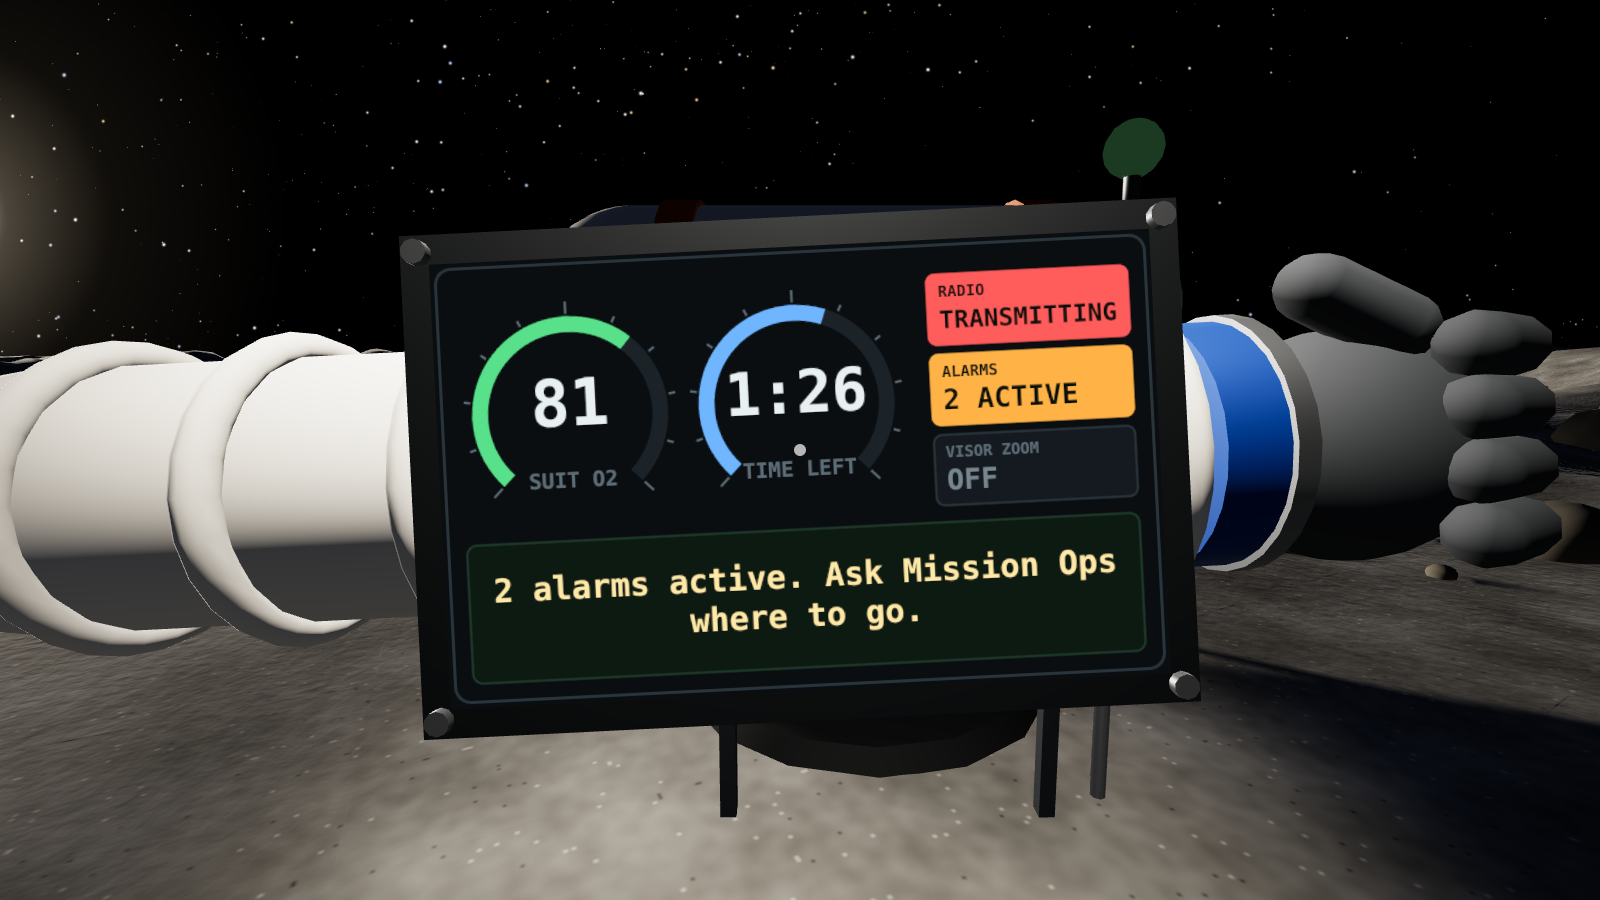
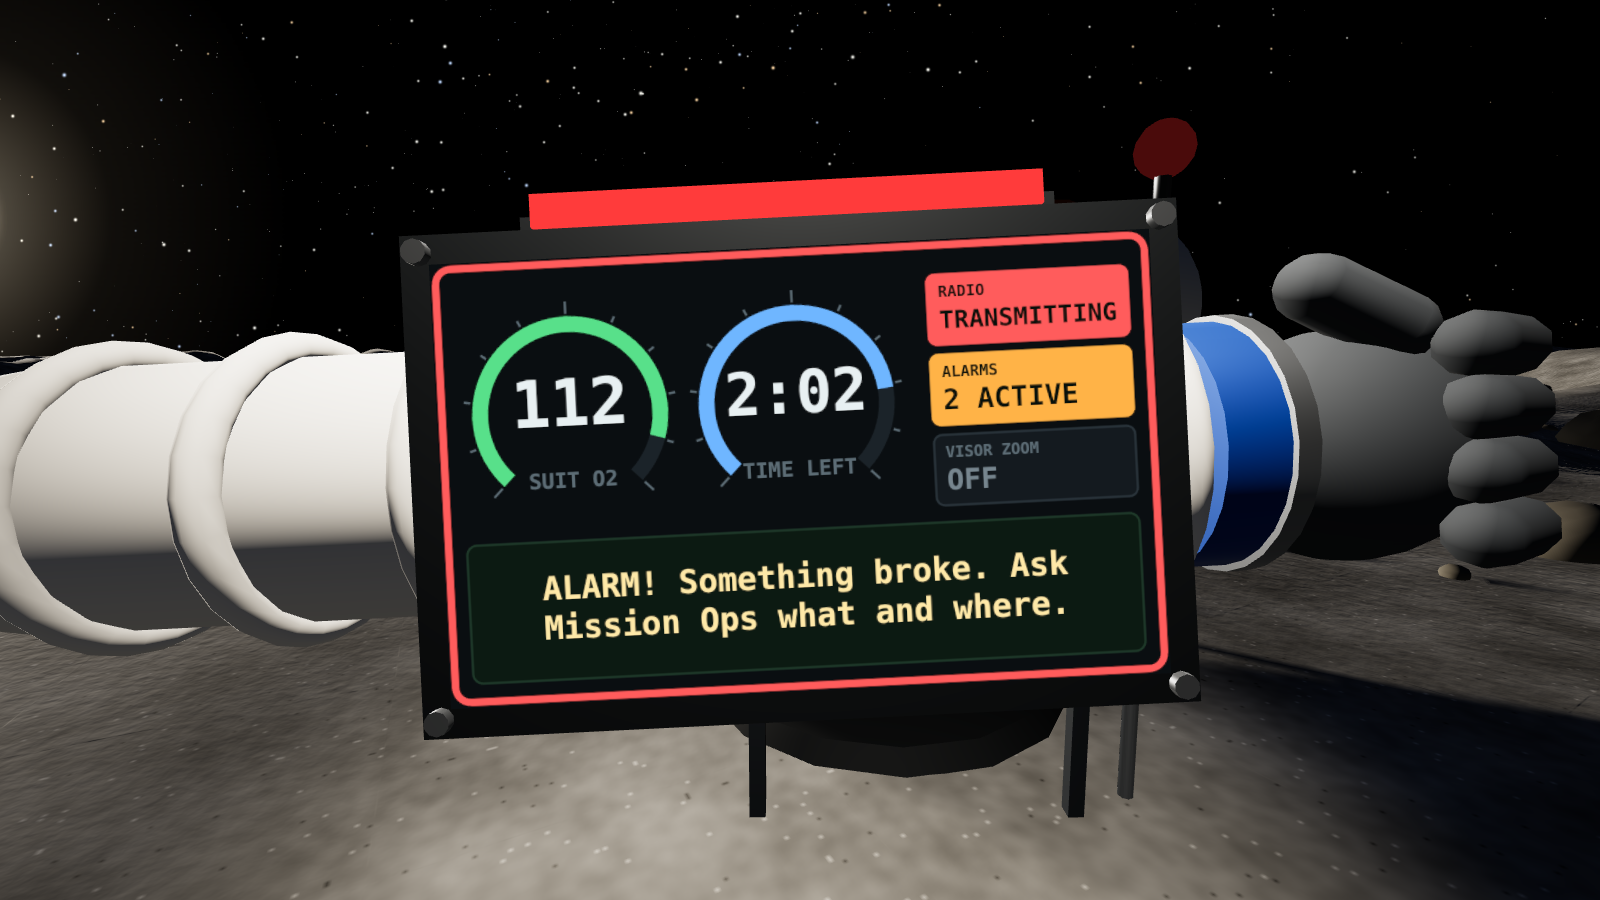
Tab keys the radio and raises the wrist gauges; the cluster shows the radio state
On a laptop the radio key is now Tab, replacing T. As on the headset, keying the radio and
raising the arm are one control: hold Tab and the arm comes up with the gauge cluster and the
astronaut is on the air; let go and both end. Tab only stops moving the keyboard focus once
you are playing, so the start screen can still be stepped through with it.

The cluster now says plainly what the radio is doing, as well as carrying the gauges: a light
bar on top of the housing, the frame round the face and the RADIO lamp turn red while
transmitting, blue while Mission Ops is talking, and amber when the page has no microphone
(the arm still comes up; nothing is sent).

Also:
- The arm moves in real time, so it is as quick on a slow machine as on a fast one.
- The start screen scrolls and no longer pushes its buttons off a short window, which the
  extra line about the wrist gauges had started to do.

The smoke test was rebuilt around what this turned up. It now checks the radio end to end in
a second browser with a pretend microphone: Tab raises the arm, transmits, and shows
"ASTRONAUT IS TRANSMITTING" on the Mission Ops seat; letting go ends it; Mission Ops holding
Space reaches the astronaut without raising the arm; the old T key does nothing. And none of
its checks reads a pixel any more. Reading pixels back from anything the graphics side has
drawn (a screenshot, a render target, the gauge face's canvas) costs the software-rendered
[…]

diff --git a/client/astronaut.js b/client/astronaut.js
@@ -58,7 +58,9 @@ addEventListener('resize', () => {
 // up in front of the face only while the radio is keyed (see client/arm.js).
 const arm = buildArm(THREE);
 camera.add(arm.group);
-let keyed = false; // the talk button, key or gesture is held, whether or not there is a microphone
+// Keying the radio and raising the arm are one action: Tab on a laptop, the left trigger on a
+// controller, the left hand to the helmet with bare hands.
+let keyed = false; // the talk control is held, whether or not there is a microphone
 
 function message(now) {
   const s = state;
@@ -72,11 +74,10 @@ function message(now) {
   else if (!line) line = 'All systems nominal.';
   return line;
 }
+const radioState = () => talking ? 'tx' : rx ? 'rx' : keyed && !radio.micOk ? 'nomic' : '';
 function drawGauges(now) {
-  arm.draw({
-    state, line: message(now), zoom: scopeOn() ? zoom : 1, total: CFG.roundSeconds,
-    radio: talking ? 'tx' : rx ? 'rx' : keyed && !radio.micOk ? 'nomic' : '',
-  });
+  arm.draw({ state, line: message(now), zoom: scopeOn() ? zoom : 1, total: CFG.roundSeconds, radio: radioState() });
+  arm.signal(radioState(), now);
 }
 function say(text, seconds = 6) { prompt = text; promptUntil = performance.now() / 1000 + seconds; }
 
@@ -88,7 +89,12 @@ net.onMsg = m => { if (m.t === 'ptt') { rx = m.on; radio.rxMarker(m.on); } };
 
 // ---------- controls ----------
 const keys = {};
-addEventListener('keydown', e => { keys[e.key.toLowerCase()] = true; if (e.key === ' ') e.preventDefault(); });
+addEventListener('keydown', e => {
+  keys[e.key.toLowerCase()] = true;
+  // Space would scroll the page. Tab is the radio key once you are playing, so it must not move the
+  // keyboard focus; on the start screen it is left alone, to step between the buttons as usual.
+  if (e.key === ' ' || (e.key === 'Tab' && mode === 'desk')) e.preventDefault();
+});
 addEventListener('keyup', e => { keys[e.key.toLowerCase()] = false; });
 addEventListener('blur', () => { for (const k in keys) keys[k] = false; });
 // Chrome reports one huge movementX/Y on the first event after the pointer locks (the cursor
@@ -335,6 +341,7 @@ function renderScope() {
   renderer.setRenderTarget(scopeRT);
   renderer.clear();
   renderer.render(scene, scopeCam);
+  scopeMesh.userData.drawCalls = renderer.info.render.calls; // for the smoke test: the scope pass drew the scene
   renderer.setRenderTarget(target);
   renderer.shadowMap.autoUpdate = shadows;
   renderer.xr.enabled = xr;
@@ -344,7 +351,7 @@ function setZoom(z) { zoom = Math.max(1, Math.min(ZOOM_MAX, +z || 1)); }
 
 let vy = 0, turnArmed = true, lastPose = 0;
 function control(dt, now) {
-  let mx = 0, mz = 0, jump = false, ptt = !!keys.t;
+  let mx = 0, mz = 0, jump = false, ptt = mode === 'desk' && !!keys.tab;
   const session = renderer.xr.getSession();
   camera.getWorldPosition(headPos);
   camera.getWorldDirection(fwd); fwd.y = 0; fwd.normalize();
@@ -394,7 +401,11 @@ function control(dt, now) {
 }
 
 // ---------- main loop ----------
+// A picture of the view as just drawn, as a PNG data URL, for the smoke test's optional screenshots.
+let snapWaiting = null;
+const snap = () => new Promise(resolve => { snapWaiting = resolve; });
 let lastFrame = performance.now() / 1000;
+let armFrame = lastFrame;
 renderer.setAnimationLoop(() => {
   const now = performance.now() / 1000, dt = Math.min(0.05, now - lastFrame);
   lastFrame = now;
@@ -421,14 +432,16 @@ renderer.setAnimationLoop(() => {
   }
   if (mode) control(dt, now); else keyed = false;
   panels.update(dt);
-  arm.update(dt, keyed);
+  arm.update(Math.min(0.25, now - armFrame), keyed); // real time, so the arm is as quick on a slow machine
+  armFrame = now;
   if (arm.raise > 0) drawGauges(now);
   renderScope();
   renderer.render(scene, camera);
+  if (snapWaiting) { snapWaiting(renderer.domElement.toDataURL('image/png')); snapWaiting = null; } // must follow the draw in the same frame
 });
 
 // For debugging from the browser console: moonbase.state(), moonbase.panels.targets() ...
-window.moonbase = { state: () => state, panels, world, radio, rig, camera, net, use: () => use(null), teleport, turnRig, zoom: () => zoom, setZoom, controllers, handControls, renderer, scope: scopeMesh, scopeTarget: scopeRT, arm };
+window.moonbase = { state: () => state, panels, world, radio, rig, camera, net, use: () => use(null), teleport, turnRig, zoom: () => zoom, setZoom, controllers, handControls, renderer, scope: scopeMesh, arm, snap, radioState: () => ({ keyed, talking, rx, shown: radioState() }) };
 
 // ---------- start-up screen ----------
 const $ = id => document.getElementById(id);
@@ -439,6 +452,6 @@ $('radioBtn').onclick = async () => {
   $('step2').hidden = false;
 };
 $('vrSlot').appendChild(VRButton.createButton(renderer, { optionalFeatures: ['hand-tracking'] }));
-$('deskBtn').onclick = () => { mode = 'desk'; $('gate').hidden = true; $('cross').hidden = false; lockPointer(); };
+$('deskBtn').onclick = () => { mode = 'desk'; keys.tab = false; $('deskBtn').blur(); $('gate').hidden = true; $('cross').hidden = false; lockPointer(); };
 renderer.xr.addEventListener('sessionstart', () => { mode = 'vr'; $('gate').hidden = true; });
 renderer.xr.addEventListener('sessionend', () => { mode = null; zoom = 1; zoomGrab = null; $('gate').hidden = false; });

diff --git a/client/arm.js b/client/arm.js
@@ -3,7 +3,9 @@
 // the arm only comes up in front of the face while the radio is keyed.
 //
 // Add `arm.group` to the camera. Call `arm.update(dt, radioKeyed)` every frame and `arm.draw(info)`
-// whenever the arm is in view.
+// whenever the arm is in view. The arm coming up is itself the sign that the radio is keyed; the
+// light bar on top of the cluster, the frame round the face and the RADIO lamp say what the radio
+// is doing: red while transmitting, blue while Mission Ops is talking, amber with no microphone.
 
 const W = 1024, H = 632;                       // gauge face, in canvas pixels
 const FACE_W = 0.34, FACE_H = FACE_W * H / W;  // and in metres
@@ -54,6 +56,17 @@ export function buildArm(THREE) {
     bolt.rotation.x = Math.PI / 2;
   }
 
+  // Radio light bar along the top edge of the housing. Dark until the radio does something.
+  const SIGNAL = { tx: 0xff3b3b, rx: 0x4da3ff, nomic: 0xffa52e };
+  const barMat = new THREE.MeshBasicMaterial({ color: 0x1a1f24, toneMapped: false });
+  mk(new THREE.BoxGeometry(FACE_W * 0.72, 0.016, 0.02), barMat, 0, FACE_H / 2 + 0.024, -0.012);
+  mk(new THREE.BoxGeometry(FACE_W * 0.78, 0.012, 0.03), housing, 0, FACE_H / 2 + 0.02, -0.03);
+  function signal(radio, now) {
+    if (!SIGNAL[radio]) { barMat.color.setHex(0x1a1f24); return; }
+    const pulse = radio === 'tx' ? 0.7 + 0.3 * Math.sin(now * 9) : 1; // transmitting: a quick throb
+    barMat.color.setHex(SIGNAL[radio]).multiplyScalar(pulse);
+  }
+
   const canvas = document.createElement('canvas');
   canvas.width = W; canvas.height = H;
   const g = canvas.getContext('2d');
@@ -102,7 +115,7 @@ export function buildArm(THREE) {
     return lines.length <= maxLines ? lines : null;
   }
 
-  let key = '';
+  let key = '', shown = null; // shown: what the face last drew, in words, for the smoke test
   // info = { state, line, radio: '' | 'tx' | 'rx' | 'nomic', zoom, total }. Redraws only when something shown changes.
   function draw(info) {
     const s = info.state;
@@ -112,8 +125,9 @@ export function buildArm(THREE) {
     if (k === key) return;
     key = k;
 
+    const radio = { tx: ['TRANSMITTING', RED], rx: ['MISSION OPS', BLUE], nomic: ['NO MICROPHONE', AMBER] }[info.radio];
     g.fillStyle = '#0a0e11'; g.fillRect(0, 0, W, H);
-    g.strokeStyle = '#2a343b'; g.lineWidth = 4;
+    g.strokeStyle = radio ? radio[1] : '#2a343b'; g.lineWidth = radio ? 10 : 4; // the frame lights up with the radio
     g.beginPath(); g.roundRect(8, 8, W - 16, H - 16, 22); g.stroke();
 
     // Suit oxygen.
@@ -129,7 +143,6 @@ export function buildArm(THREE) {
     label('TIME LEFT', 512, 318, 30, DIM);
 
     // Status lamps.
-    const radio = { tx: ['TRANSMITTING', RED], rx: ['MISSION OPS', BLUE], nomic: ['NO MICROPHONE', AMBER] }[info.radio];
     lamp(704, 50, 286, 100, 'RADIO', radio ? radio[0] : 'STANDBY', radio ? radio[1] : GREEN, !!radio);
     lamp(704, 164, 286, 100, 'ALARMS', alarms ? `${alarms} ACTIVE` : 'NONE', AMBER, alarms > 0);
     lamp(704, 278, 286, 100, 'VISOR ZOOM', zoom ? zoom + 'x' : 'OFF', GREEN, !!zoom);
@@ -144,6 +157,7 @@ export function buildArm(THREE) {
     g.fillStyle = '#ffe9a8'; g.textAlign = 'center'; g.textBaseline = 'middle';
     lines.forEach((ln, i) => g.fillText(ln, W / 2, 500 + (i - (lines.length - 1) / 2) * size * 1.2));
     tex.needsUpdate = true;
+    shown = { radio: radio ? radio[0] : 'STANDBY', frame: radio ? radio[1] : null, oxygen: o2, seconds: t, alarms, zoom: zoom || 'OFF', message: lines.join(' ') };
   }
 
   // ---------- raising and lowering ----------
@@ -162,5 +176,5 @@ export function buildArm(THREE) {
   }
   update(0, false);
 
-  return { group, canvas, draw, update, get raise() { return raise; } };
+  return { group, draw, update, signal, get raise() { return raise; }, get shown() { return shown; } };
 }

diff --git a/client/astronaut.html b/client/astronaut.html
@@ -8,7 +8,7 @@
 <style>
   body { overflow:hidden; }
   canvas { display:block; }
-  #gate { position:fixed; inset:0; display:flex; flex-direction:column; align-items:center; justify-content:center; gap:14px; background:rgba(4,6,8,.92); text-align:center; padding:2em; z-index:5; }
+  #gate { position:fixed; inset:0; display:flex; flex-direction:column; align-items:center; justify-content:safe center; overflow-y:auto; gap:14px; background:rgba(4,6,8,.92); text-align:center; padding:2em; z-index:5; }
   #gate h1 { color:var(--green); letter-spacing:.3em; font-size:40px; }
   #gate p { color:var(--dim); max-width:34em; margin:0; }
   #gate .row { display:flex; gap:12px; flex-wrap:wrap; justify-content:center; }
@@ -22,8 +22,8 @@
 <div id="gate">
   <h1>MOONBASE</h1>
   <p><b style="color:var(--ink)">You are the astronaut.</b> Things will break. Mission Ops knows where and how to fix them, but their voice takes 1.3 seconds to reach you. Tell them what you see.</p>
-  <p>Nothing is drawn on your visor. Your oxygen, the clock and your alarms are on your wrist gauges, and your arm comes up in front of your face whenever you key the radio.</p>
-  <p id="how">Headset: LEFT trigger = talk, RIGHT trigger = use, left stick = walk, right stick = turn, A = jump.<br>Bare hands: left hand to helmet = talk, point + pinch = use, pinch at the ground = teleport, pinch left + drag sideways = turn, pinch both hands + pull apart = zoom.<br>Desktop: T = talk, click = use, WASD = walk, mouse = look, Space = jump.</p>
+  <p>Nothing is drawn on your visor: your gauges are on your wrist, and your arm comes up while you key the radio.</p>
+  <p id="how">Headset: LEFT trigger = radio + wrist gauges, RIGHT trigger = use, left stick = walk, right stick = turn, A = jump.<br>Bare hands: left hand to helmet = radio + wrist gauges, point + pinch = use, pinch at the ground = teleport, pinch left + drag sideways = turn, pinch both hands + pull apart = zoom.<br>Desktop: hold Tab = radio + wrist gauges, click = use, WASD = walk, mouse = look, Space = jump.</p>
   <div class="row"><button id="radioBtn" class="big">1. Turn on radio</button></div>
   <div class="row" id="step2" hidden><span id="vrSlot"></span><button id="deskBtn" class="big ghost">Play on this screen</button></div>
   <p id="err"></p>

diff --git a/README.md b/README.md
@@ -60,7 +60,7 @@ If the venue Wi-Fi blocks devices from seeing each other, use a phone hotspot.
 
 | | Controllers | Bare hands (hand tracking) | Laptop (testing) |
 | --- | --- | --- | --- |
-| Talk to Mission Ops | hold left trigger | hold your left hand up to your helmet | hold T |
+| Radio to Mission Ops, and wrist gauges | hold left trigger | hold your left hand up to your helmet | hold Tab |
 | Use a panel | point right hand, pull trigger (within 3 m) | point right hand, pinch and let go | click |
 | Move | left stick | point right hand at the ground, pinch and let go to teleport (up to 8 m) | WASD |
 | Turn | right stick | pinch left hand, drag it sideways (30° per 10 cm) | mouse |
@@ -75,7 +75,7 @@ Visor zoom is for reading a panel or a serial number from where you stand: a rou
 
 ![The wrist gauges, up while the radio is keyed](docs/astronaut-wrist.png)
 
-The astronaut has no heads-up display. Suit oxygen, time left, the radio lamp, the alarm count, the visor zoom level and the message line are on a gauge cluster strapped to the left forearm, and the arm is out of sight until the radio is keyed. Hold the talk control (left trigger, left hand to helmet, or T) and the arm swings up across your face and covers most of the view; let go and it drops. So you can look at the Moon or at your gauges, not both, and you read your oxygen while you are talking. The radio lamp reads TRANSMITTING, MISSION OPS when they are talking to you, or NO MICROPHONE if the page has none (the arm still comes up). The older screenshots in `docs/` were taken before this and still show a strip along the bottom of the view; that strip is gone.
+The astronaut has no heads-up display. Suit oxygen, time left, the radio lamp, the alarm count, the visor zoom level and the message line are on a gauge cluster strapped to the left forearm, and the arm is out of sight until the radio is keyed. Keying the radio and raising the arm are one action: hold the radio control (left trigger, left hand to helmet, or Tab on a laptop) and the arm swings up across your face and covers most of the view; let go and it drops. So you can look at the Moon or at your gauges, not both, and you read your oxygen while you are talking. The arm being up is itself the sign that your radio is keyed, and the cluster says what the radio is doing: a light bar on top of it, the frame round the face and the RADIO lamp turn red and read TRANSMITTING while you are on the air, blue (MISSION OPS) while they are talking to you, and amber (NO MICROPHONE) if the page has none, in which case the arm still comes up but nothing is sent. The older screenshots in `docs/` were taken before this and still show a strip along the bottom of the view; that strip is gone.
 
 Mission Ops holds **Space** to talk. The Technician drives the rover with the **arrow keys**.
 
@@ -118,9 +118,9 @@ Suggested split: A takes `astronaut.js`, `world.js` and the art. B takes `server
 
 Everything is procedural, nothing is downloaded: cratered regolith with a generated grain texture and vertex-colour variation, boulder fields from noise-displaced rocks (none inside the play area, so you never walk through one), a Milky Way of 5,000 stars with their own sizes and colours, the sun as a disc and glow along the light direction, and an Earth with continents, drifting clouds, a sunlit atmosphere rim and a phase from the same sun that lights the ground. Filmic tone mapping and an environment map make the gold foil, visors and steel reflect something. The habitat has a ribbed dome, insulated skirt, hatch with porthole, floodlight, radiators and a dish aimed at Earth; the stations, rover and a lander with its flag on the horizon follow suit. The scene is about 250k triangles and 270 draw calls, which is within a Quest 2's budget. The look was tuned from desktop screenshots in `docs/`.
 
-Tested in headless Chromium against the real three.js r180 build: lobby and loadout, a full round with every alarm type solved through the astronaut's panels, the delayed voice link in both directions, rover driving, results, "Fly again", seat locking, and the 3D scene itself: it loads with no errors, everything renders, and using a wire on the fuel depot panel reaches the server through the raycaster, on both the laptop server and the Cloudflare worker. `npm run smoke` repeats the scene check (it needs `npm i -D playwright && npx playwright install chromium` once) and leaves screenshots in `test/shots/`.
+Tested in headless Chromium against the real three.js r180 build: lobby and loadout, a full round with every alarm type solved through the astronaut's panels, the delayed voice link in both directions, rover driving, results, "Fly again", seat locking, and the 3D scene itself: it loads with no errors, everything renders, and using a wire on the fuel depot panel reaches the server through the raycaster, on both the laptop server and the Cloudflare worker. `npm run smoke` repeats the scene check (it needs `npm i -D playwright && npx playwright install chromium` once). `npm run smoke:shots` does the same and leaves screenshots in `test/shots/`; they are off by default because reading a picture back out of a 3D canvas is the one thing software rendering cannot do cheaply, and each one costs the test browser tens of seconds and gigabytes of memory.
 
-The smoke test also drives the hand-tracking gestures without a headset, by firing the same events a pinch fires: both hands pinched and pulled apart zooms (in either pinch order, without teleporting or turning), pushed together zooms out, and the one-handed turn and teleport still work. It then checks that the visor scope holds a real picture, that nothing is fixed to the view while the radio is idle, and that holding the talk key brings the arm and a drawn gauge face up and letting go lowers it.
+The smoke test also drives the hand-tracking gestures without a headset, by firing the same events a pinch fires: both hands pinched and pulled apart zooms (in either pinch order, without teleporting or turning), pushed together zooms out, and the one-handed turn and teleport still work. It then checks that the visor scope's extra pass draws the scene without a WebGL error, that nothing is fixed to the view while the radio is idle, and that the radio key and the arm are one control. With no microphone, holding Tab still brings the arm up with a drawn gauge face that says NO MICROPHONE in amber, the old T key does nothing, and letting go lowers the arm. Then, in a second browser with a pretend microphone, holding Tab brings the arm up, puts the astronaut on the air with a red frame, and shows "ASTRONAUT IS TRANSMITTING" on the Mission Ops seat; letting go ends the transmission; and Mission Ops holding Space reaches the astronaut without raising the arm. It prints each step with a time as it goes.
 
 **Not yet seen on a headset:** the VR controls, hand tracking, the visor zoom drawn inside a live headset session, where the arm and its gauges sit in front of the face, and how the scene performs on the Quest's GPU. Start there, with the Quest plugged in over USB or on the deployed URL. If it stutters, the first things to turn down are in `client/world.js`: the terrain segment count (`SEG`), the boulder counts in the three `scatter` calls, and the shadow map size.
 
